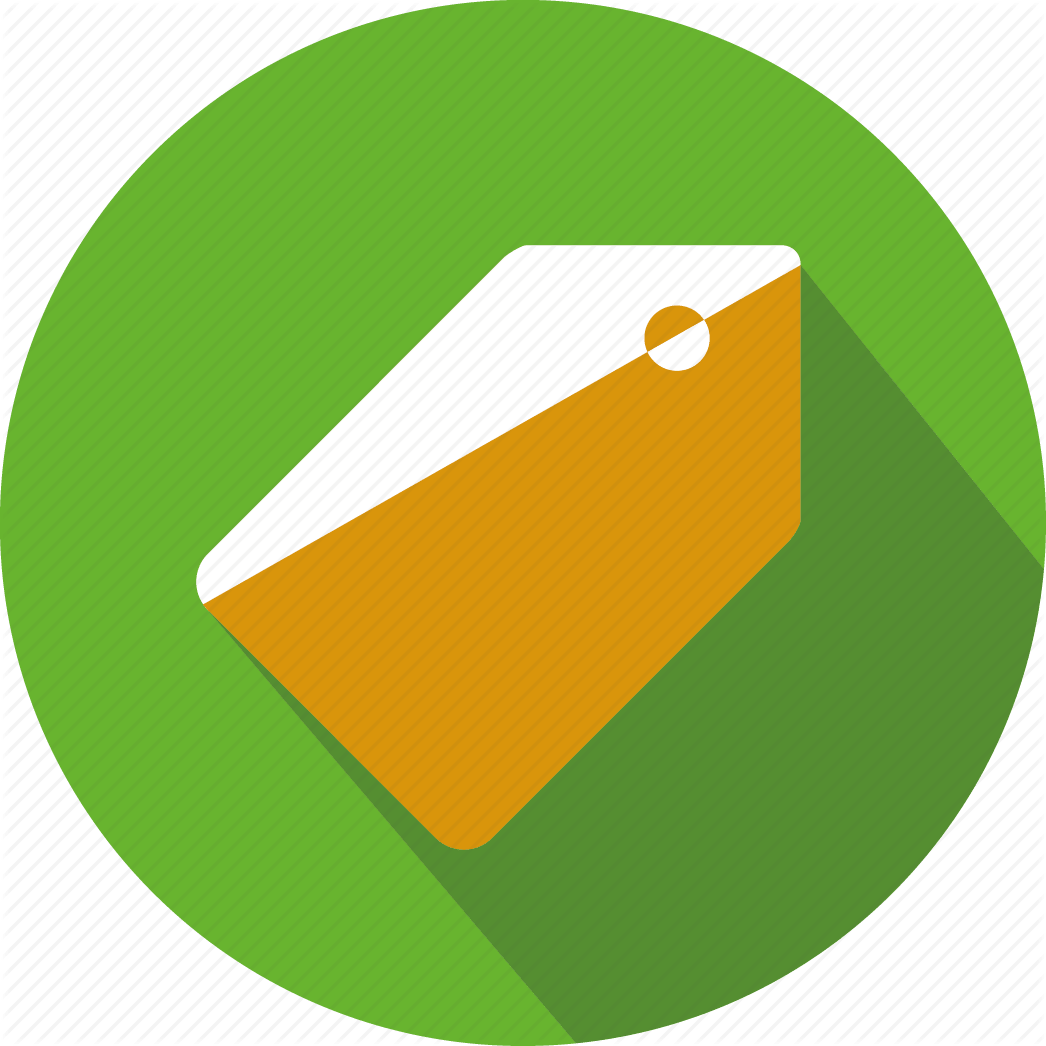
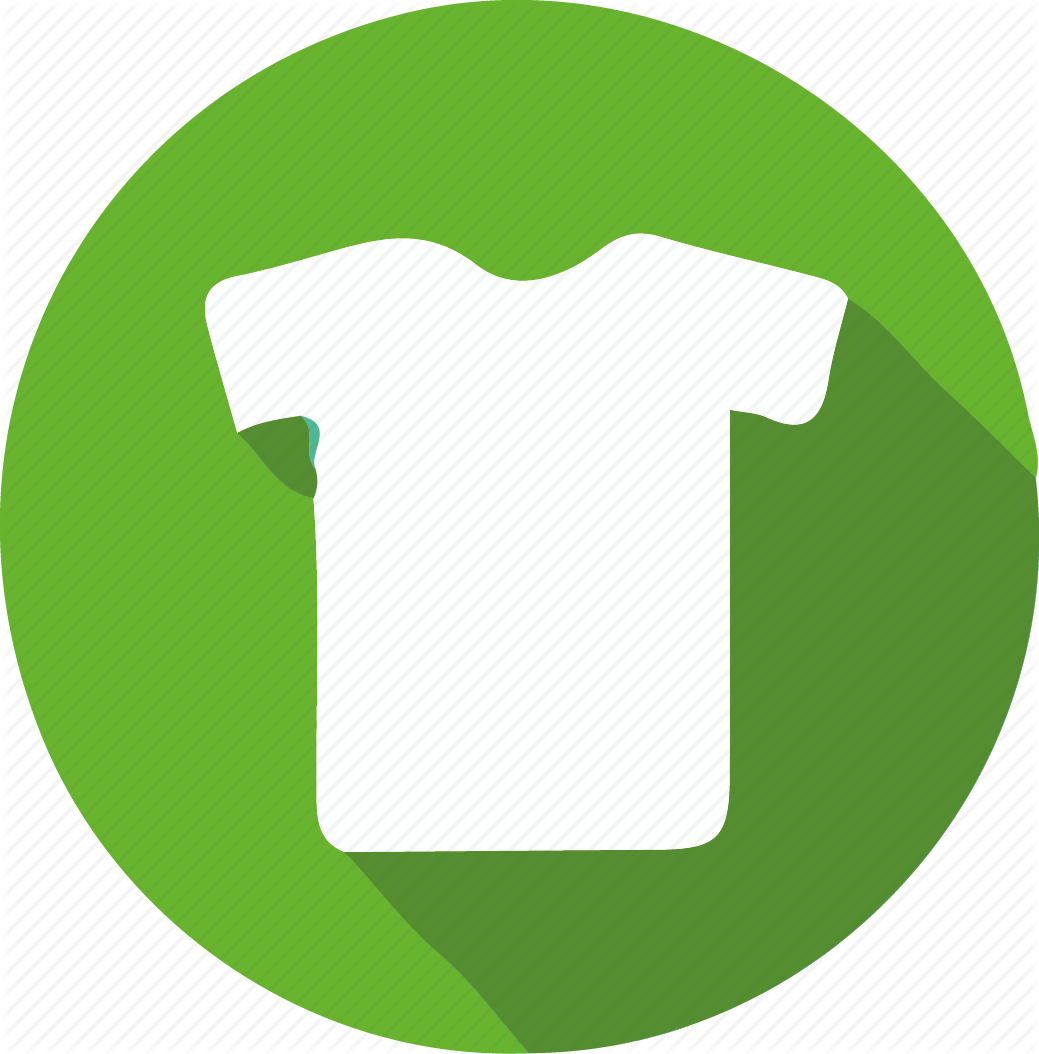
imagenes panel de admin correctas

diff --git a/admindash.php b/admindash.php
@@ -25,7 +25,7 @@
                 <div id="3" class="item"><a class="nohover" href="projectmanagement.php"><img src="images/stats.png" alt="Gestión de Proyectos"></a><a href="projectmanagement.php" class="button">Gestión de Proyectos</a></div>
                 <div id="4" class="item"><a class="nohover" href="videogamemanagement.php"><img src="images/games.png" alt="Gestión de Videojuegos"></a><a href="videogamemanagement.php" class="button">Gestión de Videojuegos</a></div>
                 <div id="5" class="item"><a class="nohover" href="merchandisingmanagement.php"><img src="images/merchan.png" alt="Gestión de Merchandising"></a><a href="merchandisingmanagement.php" class="button">Gestión de Merchandising</a></div>
-                <div id="6" class="item"><a class="nohover" href="commentmanagement.php"><img src="images/merchan.png" alt="Gestión de Comentarios"></a><a href="commentmanagement.php" class="button">Gestión de Comentarios</a></div>
+                <div id="6" class="item"><a class="nohover" href="commentmanagement.php"><img src="images/comment.png" alt="Gestión de Comentarios"></a><a href="commentmanagement.php" class="button">Gestión de Comentarios</a></div>
             </div>
         </div>
         <!-- FOOTER -->
